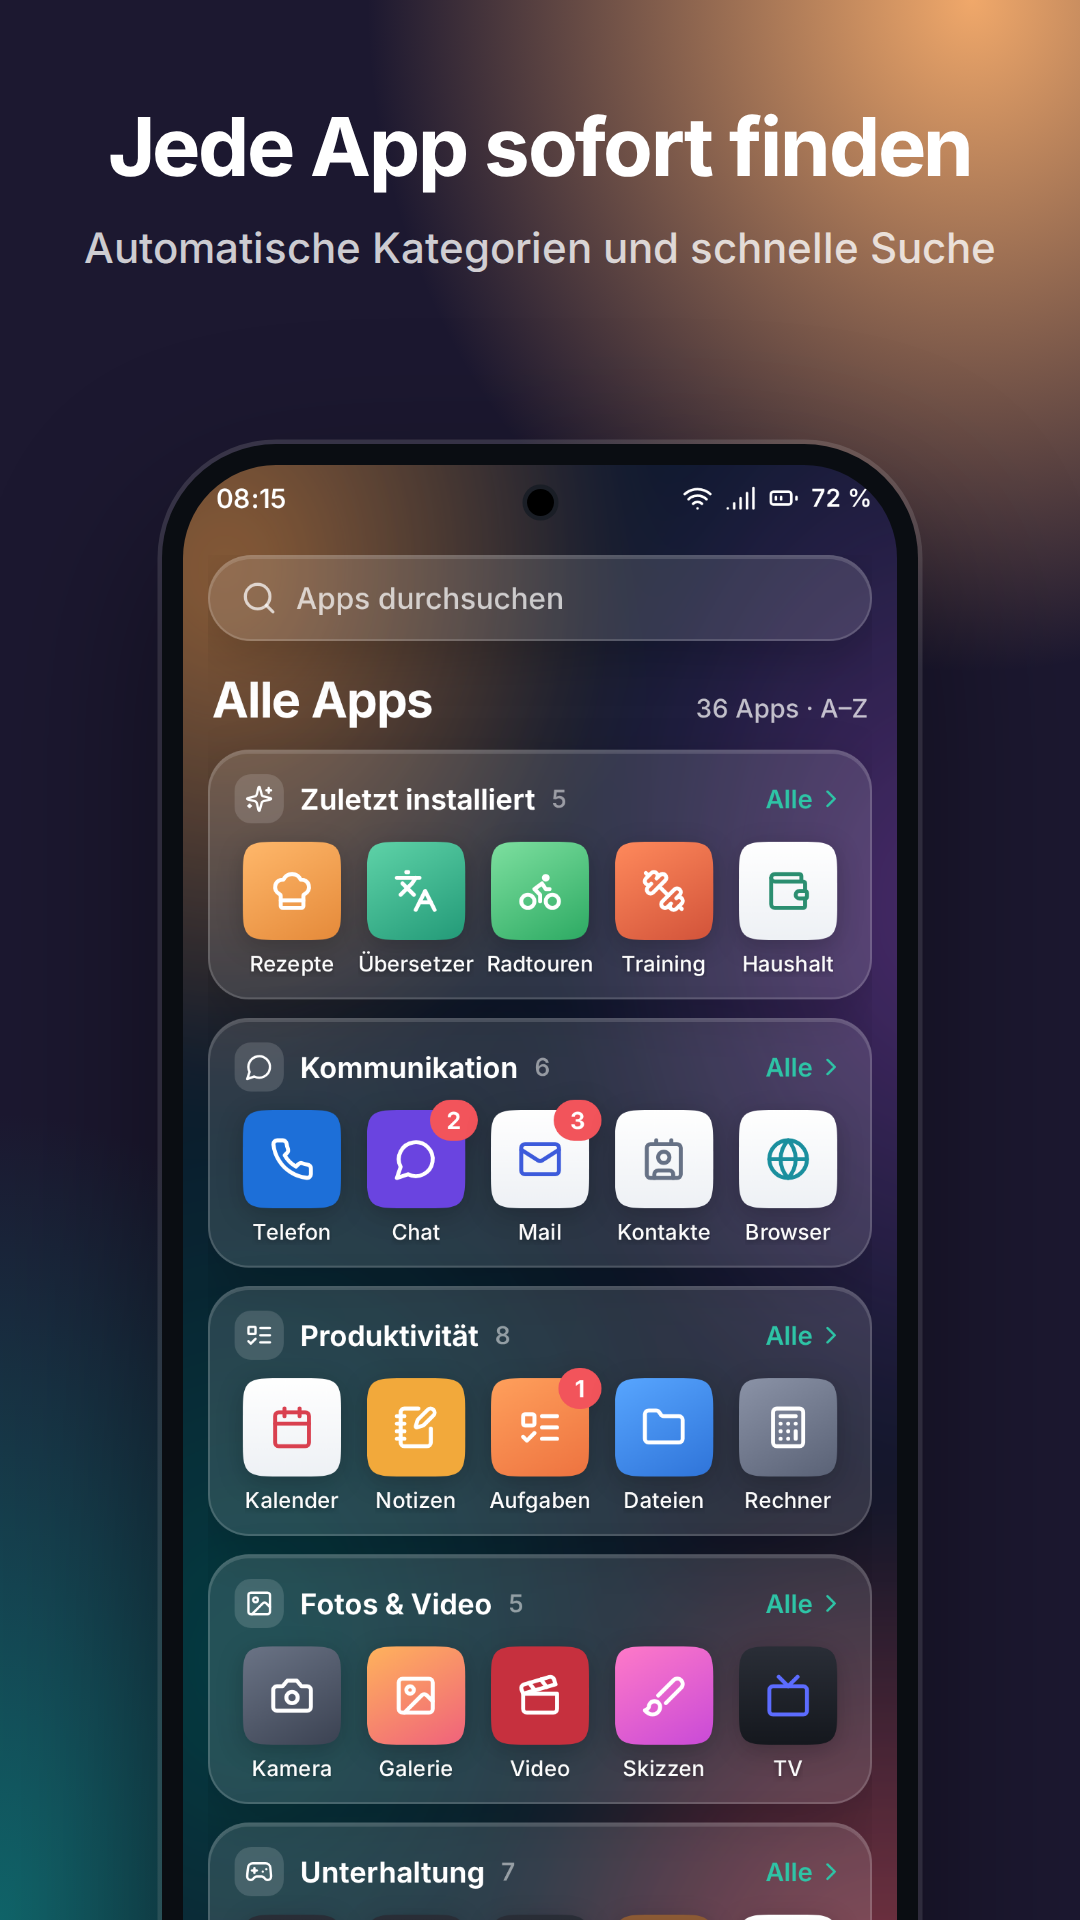
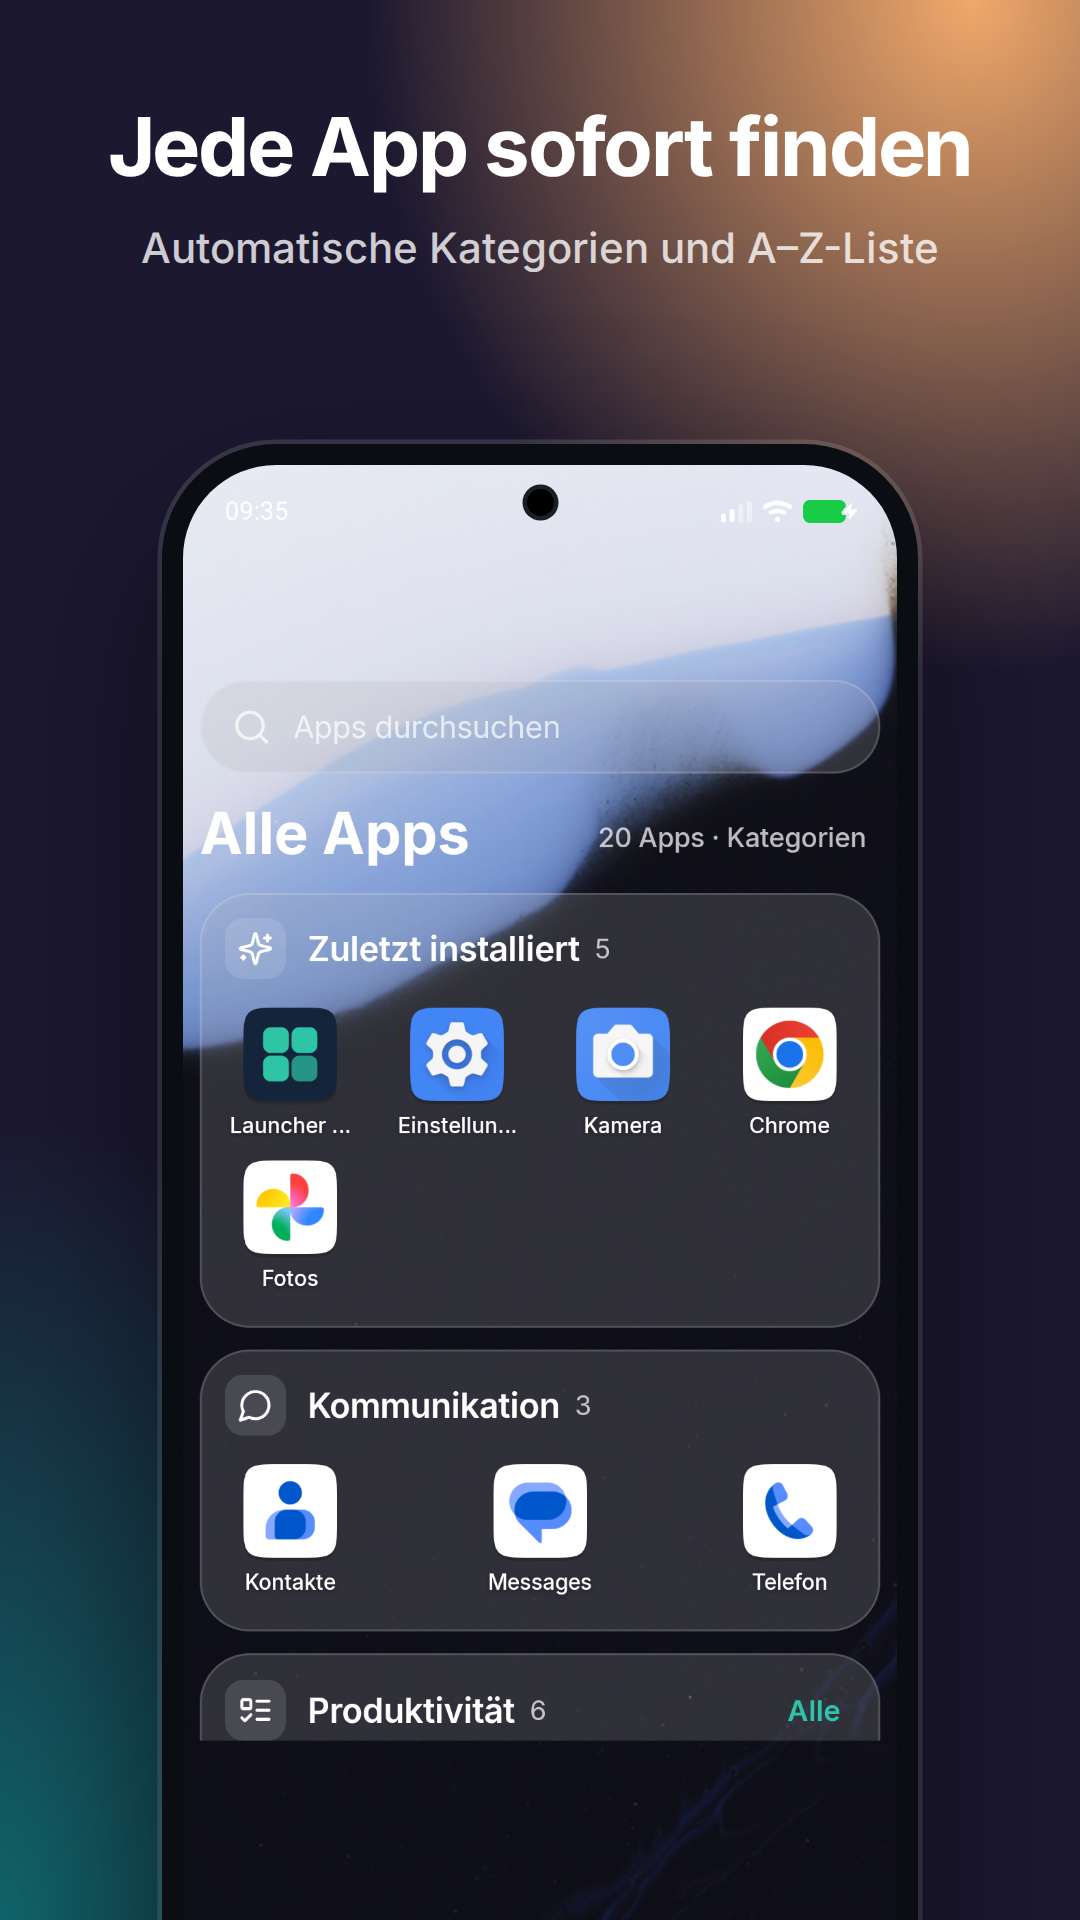
Play-Store-Bilder aus echten Emulator-Aufnahmen, Feature-Grafik mit App-Namen
Claude-Session: https://claude.ai/code/session_017qpbYm68QTraCox1CgWHBe

diff --git a/design/store/feature-graphic.html b/design/store/feature-graphic.html
@@ -8,7 +8,7 @@
   body { font-family:"Inter",sans-serif; font-feature-settings:"cv11","ss01"; color:#fff; -webkit-font-smoothing:antialiased; position:relative;
     background: radial-gradient(60% 80% at 0% 0%, #2EC4A6 0%, transparent 65%), radial-gradient(55% 90% at 100% 100%, #7A4BA8 0%, transparent 70%), radial-gradient(40% 60% at 70% 0%, #F0A86A 0%, transparent 70%), #13223A; }
   .txt { position:absolute; left:72px; top:50%; transform:translateY(-50%); width:470px; }
-  .name { font-size:84px; font-weight:780; letter-spacing:-3px; line-height:1; }
+  .name { font-size:68px; font-weight:780; letter-spacing:-2.4px; line-height:1; }
   .tag { font-size:28px; font-weight:560; margin-top:18px; line-height:1.25; color:rgba(255,255,255,.9); }
   .sub { font-size:18px; margin-top:16px; color:rgba(255,255,255,.7); font-weight:500; }
   .phone { position:absolute; top:60px; width:230px; height:510px; border-radius:36px; background:#0A0D12; padding:7px; box-shadow:0 30px 70px rgba(0,0,0,.5), 0 0 0 1.5px rgba(255,255,255,.14); }
@@ -22,7 +22,7 @@
     <div class="tag">Der Homescreen, der sich vertraut anfühlt</div>
     <div class="sub">Einfach umsteigen · fast alles einstellbar</div>
   </div>
-  <div class="phone p1"><img src="../export/screens/01-homescreen.png" alt=""></div>
-  <div class="phone p2"><img src="../export/screens/04-schnellzugriff.png" alt=""></div>
+  <div class="phone p1"><img src="../export/app/01-home.png" alt=""></div>
+  <div class="phone p2"><img src="../export/app/05-schnellzugriff.png" alt=""></div>
   <script>const APP_NAME = new URLSearchParams(location.search).get("name"); if (APP_NAME) document.getElementById("n").textContent = APP_NAME;</script>
 </body></html>

diff --git a/design/store/frame.html b/design/store/frame.html
@@ -29,6 +29,6 @@
   document.getElementById("bg").classList.add("bg" + (q.get("bg") || "1"));
   document.getElementById("h").textContent = q.get("h") || "";
   document.getElementById("sub").textContent = q.get("sub") || "";
-  document.getElementById("img").src = "../export/screens/" + q.get("s") + ".png";
+  const src = q.get("s"); document.getElementById("img").src = "../export/" + (src.includes("/") ? src : "screens/" + src) + ".png";
 </script>
 </body></html>

diff --git a/design/README.md b/design/README.md
@@ -4,7 +4,7 @@
 - `store/list.tsv` – Auswahl, Überschriften und Hintergrund der 8 Store-Bilder
 - `store/frame.html` – Store-Rahmen (1080 × 1920), `store/feature-graphic.html` (1024 × 500)
 - `assets/kit.css`, `assets/kit.js` – Design-System (Farben, Glas, Squircle-Maske, Platzhalter-Apps)
-- `export/` – fertige PNGs, `export/uebersicht-alle-vorlagen.png` zeigt alles auf einen Blick
+- `export/` – fertige PNGs (`store/` = Play-Store-Bilder 1080 × 1920 und Feature-Grafik)
 
 Rendern:
     python3 -m http.server 8765 --bind 127.0.0.1 &   # im Ordner store-screenshots
@@ -14,3 +14,6 @@ Rendern:
 
 App-Name ändern: `store/feature-graphic.html` (Text „Launcher TOS“) und Überschrift in `store/overview.html`.
 Später echte Screenshots einsetzen: PNG unter `export/screens/<name>.png` ablegen und `./render.sh store` laufen lassen.
+
+Store-Bilder (Stand 1.0.0) nutzen echte Aufnahmen aus dem Emulator: `export/app/*.png`
+(Auswahl und Texte in `store/list.tsv`). Die HTML-Vorlagen unter `screens/` sind die ursprünglichen Design-Entwürfe.
